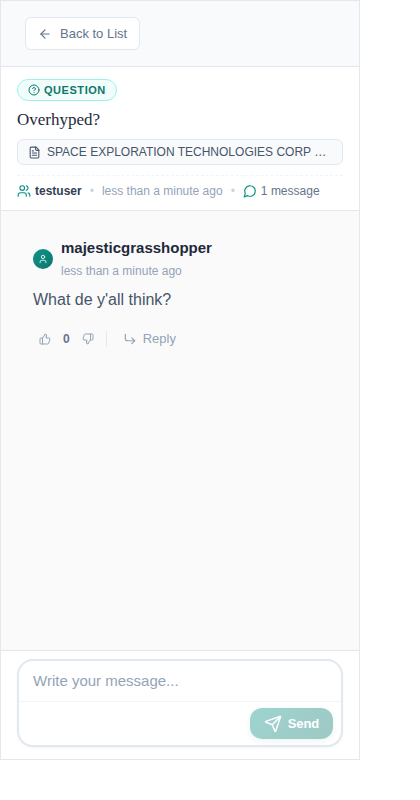
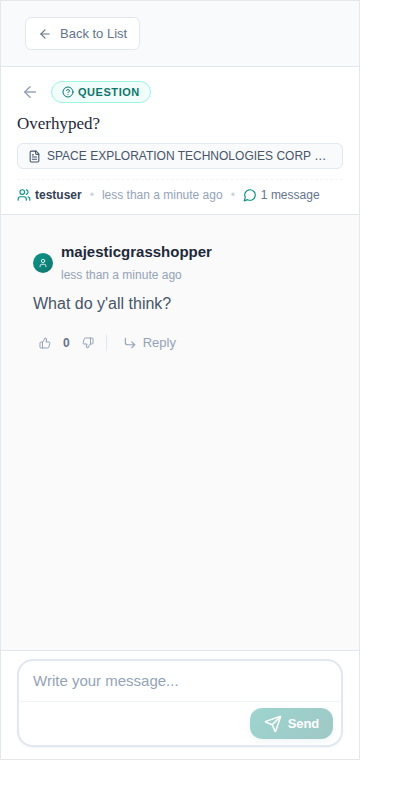
Address PR review on #1790: constants, z-index, stale read, back-button bug
Addresses Claude review on #1790 (plus restoring the back button that the
PR accidentally hid):

Critical (back button gone for sidebar discussion view):
- ThreadDetail dropped its compact BackButton whenever ``customOnBack``
  was passed. But ``customOnBack`` is the back-navigation HANDLER the
  parent supplies, not a signal that the parent renders its own button.
  ``ThreadDetailWithContext`` delegates click handling without showing
  its own back affordance, so the new gate stranded the user with no
  way to return to the list — and broke the threads-discussions.spec.ts
  e2e flow (the "Back to discussions" button locator timed out after
  3 retries). Reverted to ``compact &&`` so the button is always shown
  in compact mode; the handler still respects customOnBack.

CLAUDE.md rule #4 (no magic numbers):
- MessageBadges.tsx hoisted TOOLTIP_HEIGHT_EST + TOOLTIP_MAX_WIDTH to
  module scope, swapped its local ``GAP = 8`` and ``VIEWPORT_PADDING = 8``
  for the existing shared ``POPOVER_GAP`` and
  ``CONTEXT_MENU_VIEWPORT_PADDING`` from
  ``frontend/src/assets/configurations/constants.ts``.

Stacking-context bug:
- TooltipPopup z-index was 1000 — below ModernContextMenu (10000) and
  the canonical POPOVER_Z_INDEX (100002). Switched to POPOVER_Z_INDEX
  so the portalled tooltip outranks context menus and modal overlays.

Stale-read race:
- The JSX was computing ``bottom: window.innerHeight - tooltipPos.top``
  at render time, racing with a resize that could fire between
[…]

Changed region(s): [[0.031, 0.0938, 0.7738, 0.25], [0.0619, 0.2812, 0.4952, 0.4375]]

diff --git a/frontend/src/components/badges/MessageBadges.tsx b/frontend/src/components/badges/MessageBadges.tsx
@@ -9,6 +9,16 @@ import {
   AgentConfigurationType,
 } from "../../types/graphql-api";
 import { OS_LEGAL_COLORS } from "../../assets/configurations/osLegalStyles";
+import {
+  CONTEXT_MENU_VIEWPORT_PADDING,
+  POPOVER_GAP,
+  POPOVER_Z_INDEX,
+} from "../../assets/configurations/constants";
+
+// Tooltip-specific bounds. Hoisted to module scope so they're visible to
+// reviewers (no magic numbers buried inside a closure).
+const TOOLTIP_HEIGHT_EST = 120; // generous upper bound for typical badge tooltips
+const TOOLTIP_MAX_WIDTH = 220;
 
 const BadgeContainer = styled.div`
   display: inline-flex;
@@ -73,7 +83,10 @@ const TooltipWrapper = styled.div`
 
 const TooltipPopup = styled.div<{ $placement: "top" | "bottom" }>`
   position: fixed;
-  z-index: 1000;
+  /* Must outrank context menus (z=10000) and modals — POPOVER_Z_INDEX is
+     the project's canonical "above everything but app shell overlays"
+     layer. */
+  z-index: ${POPOVER_Z_INDEX};
   padding: 0.75em;
   border-radius: 10px;
   background: white;
@@ -164,7 +177,8 @@ function BadgeItem({
   const [isHovered, setIsHovered] = useState(false);
   const wrapperRef = useRef<HTMLDivElement>(null);
   const [tooltipPos, setTooltipPos] = useState<{
-    top: number;
+    top?: number; // set when placement === "bottom"
+    bottom?: number; // set when placement === "top"
     left: number;
     placement: "top" | "bottom";
     arrowOffset: number;
@@ -185,27 +199,42 @@ function BadgeItem({
       const node = wrapperRef.current;
       if (!node) return;
       const rect = node.getBoundingClientRect();
-      const TOOLTIP_HEIGHT_EST = 120; // generous upper bound for typical badge tooltips
-      const GAP = 8;
-      const VIEWPORT_PADDING = 8;
+      // Hide when the badge has scrolled fully out of the viewport so
+      // the tooltip doesn't float as a free-standing artifact over the
+      // rest of the UI.
+      if (rect.bottom < 0 || rect.top > window.innerHeight) {
+        setTooltipPos(null);
+        return;
+      }
       const placement: "top" | "bottom" =
-        rect.top - TOOLTIP_HEIGHT_EST - GAP < VIEWPORT_PADDING
+        rect.top - TOOLTIP_HEIGHT_EST - POPOVER_GAP <
+        CONTEXT_MENU_VIEWPORT_PADDING
           ? "bottom"
           : "top";
 
       // Center horizontally on the badge, clamped to viewport.
-      const TOOLTIP_MAX_WIDTH = 220;
       const centerX = rect.left + rect.width / 2;
       let left = centerX - TOOLTIP_MAX_WIDTH / 2;
       left = Math.max(
-        VIEWPORT_PADDING,
-        Math.min(left, window.innerWidth - TOOLTIP_MAX_WIDTH - VIEWPORT_PADDING)
+        CONTEXT_MENU_VIEWPORT_PADDING,
+        Math.min(
+          left,
+          window.innerWidth - TOOLTIP_MAX_WIDTH - CONTEXT_MENU_VIEWPORT_PADDING
+        )
       );
       const arrowOffset = centerX - left; // px from tooltip's left edge to arrow center
 
-      const top = placement === "top" ? rect.top - GAP : rect.bottom + GAP;
-
-      setTooltipPos({ top, left, placement, arrowOffset });
+      // Capture BOTH ``top`` and ``bottom`` here so the JSX doesn't have
+      // to re-read ``window.innerHeight`` at render time — that read
+      // could race with a resize between the effect firing and the next
+      // paint and cause a 1-frame misalignment.
+      if (placement === "top") {
+        const bottom = window.innerHeight - (rect.top - POPOVER_GAP);
+        setTooltipPos({ bottom, left, placement, arrowOffset });
+      } else {
+        const top = rect.bottom + POPOVER_GAP;
+        setTooltipPos({ top, left, placement, arrowOffset });
+      }
     };
 
     computePosition();
@@ -240,11 +269,8 @@ function BadgeItem({
     <TooltipPopup
       $placement={tooltipPos.placement}
       style={{
-        top: tooltipPos.placement === "top" ? undefined : tooltipPos.top,
-        bottom:
-          tooltipPos.placement === "top"
-            ? window.innerHeight - tooltipPos.top
-            : undefined,
+        top: tooltipPos.top,
+        bottom: tooltipPos.bottom,
         left: tooltipPos.left,
         // Anchor the arrow under the badge center even when the tooltip
         // is clamped to the viewport edge (consumed by ::after in

diff --git a/frontend/src/components/threads/ThreadDetail.tsx b/frontend/src/components/threads/ThreadDetail.tsx
@@ -495,11 +495,14 @@ export function ThreadDetail({
       {/* Compact Header */}
       <Header data-testid="thread-header">
         <HeaderLeft>
-          {/* Title row: type badge + title + status badges
-              Back button is only shown when the parent isn't already
-              rendering one (customOnBack signals the parent handles it). */}
+          {/* Title row: type badge + title + status badges.
+              Back button is always rendered in compact mode — ``customOnBack``
+              is the back-navigation handler the parent passes in, not a
+              signal that the parent renders its own button (e.g.
+              ``ThreadDetailWithContext`` delegates click handling but does
+              not display its own back affordance). */}
           <TitleRow>
-            {compact && !customOnBack && (
+            {compact && (
               <BackButton onClick={handleBack} aria-label="Back to discussions">
                 <ArrowLeft />
               </BackButton>

diff --git a/frontend/tests/threads/ThreadDetailSidebarLayout.ct.tsx b/frontend/tests/threads/ThreadDetailSidebarLayout.ct.tsx
@@ -37,7 +37,7 @@ test.describe("DocumentDiscussionsContent — sidebar thread detail", () => {
     allMessages: [
       createMockMessage({
         id: "msg-1",
-        content: "What de y'all think?",
+        content: "What do y'all think?",
         creator: {
           id: "user-1",
           username: "majesticGrasshopper",
@@ -146,7 +146,7 @@ test.describe("DocumentDiscussionsContent — sidebar thread detail", () => {
 
     await expect(page.getByText("Overhyped?")).toBeVisible({ timeout: 10_000 });
     await expect(page.getByText(documentTitle)).toBeVisible({ timeout: 5_000 });
-    await expect(page.getByText("What de y'all think?")).toBeVisible({
+    await expect(page.getByText("What do y'all think?")).toBeVisible({
       timeout: 5_000,
     });
 

diff --git a/frontend/tests/threads/BadgeClipHarness.tsx b/frontend/tests/threads/BadgeClipHarness.tsx
@@ -15,7 +15,7 @@ import { ChatMessageType, UserBadgeType } from "../../src/types/graphql-api";
 export function BadgeClipHarness() {
   const message: ChatMessageType = {
     id: "msg-1",
-    content: "What de y'all think?",
+    content: "What do y'all think?",
     msgType: "HUMAN",
   } as unknown as ChatMessageType;
 

diff --git a/CHANGELOG.md b/CHANGELOG.md
@@ -9,7 +9,7 @@ and this project adheres to [Semantic Versioning](https://semver.org/spec/v2.0.0
 
 ### Fixed
 
-- **Sidebar discussion-view: badge tooltip no longer clipped + reworked top header layout** (`frontend/src/components/badges/MessageBadges.tsx`, `frontend/src/components/threads/ThreadDetail.tsx`). The `Conversationalist`-style badge tooltip in the right-sidebar discussion view was getting clipped by the `overflow: hidden` chain that the sidebar shell enforces (`ContextSidebarContainer`, `DocumentDiscussionsContent` `Container`, parent `FlexColumnPanel`) — the tooltip was a child `position: absolute` element with no way to escape its scroll/clip parent. `MessageBadges.tsx` now renders `TooltipPopup` through `ReactDOM.createPortal(..., document.body)` with `position: fixed` coordinates derived from the badge's `getBoundingClientRect()`, including viewport-edge clamping and a flip-below-the-badge fallback when there isn't room above (avoids the same clip at the top of any scroll container). The arrow stays anchored under the badge centre via a `--arrow-offset` CSS variable so a clamped tooltip still points at the right element. While in the same view, `ThreadDetail.tsx`'s compact sidebar header was reworked so the type badge, title, status pills, document context link, and meta row each get their own line instead of one wrap-row that flowed into a cramped jumble; the duplicate compact back-arrow inside `TitleRow` is now suppressed when the parent already renders a back button (`compact && !customOnBack`), and the meta row is separated from the body by a dashed top border. New Playwright CT coverage in `frontend/tests/threads/ThreadDetailSidebarLayout.ct.tsx` (+ `ThreadDetailSidebarLayoutHarness.tsx`, `BadgeClipHarness.tsx`) pins both the new header layout and the tooltip-escapes-clip behaviour, and emits `discussions--sidebar-thread-detail--layout.png` and `discussions--sidebar-thread-detail--tooltip-portal.png` for docs.
+- **Sidebar discussion-view: badge tooltip no longer clipped + reworked top header layout** (`frontend/src/components/badges/MessageBadges.tsx`, `frontend/src/components/threads/ThreadDetail.tsx`). The `Conversationalist`-style badge tooltip in the right-sidebar discussion view was getting clipped by the `overflow: hidden` chain that the sidebar shell enforces (`ContextSidebarContainer`, `DocumentDiscussionsContent` `Container`, parent `FlexColumnPanel`) — the tooltip was a child `position: absolute` element with no way to escape its scroll/clip parent. `MessageBadges.tsx` now renders `TooltipPopup` through `ReactDOM.createPortal(..., document.body)` with `position: fixed` coordinates derived from the badge's `getBoundingClientRect()`, including viewport-edge clamping and a flip-below-the-badge fallback when there isn't room above (avoids the same clip at the top of any scroll container). The arrow stays anchored under the badge centre via a `--arrow-offset` CSS variable so a clamped tooltip still points at the right element. The portal layer uses `POPOVER_Z_INDEX` (100002) so it outranks context menus and modal overlays, hides itself when the underlying badge scrolls fully out of the viewport (no orphan tooltip floating over the rest of the UI), and captures both `top` and `bottom` inside the effect so the JSX never re-reads `window.innerHeight` at render time (no 1-frame misalignment on resize). Bounds come from shared / module-level constants (`POPOVER_GAP`, `CONTEXT_MENU_VIEWPORT_PADDING`, `TOOLTIP_HEIGHT_EST`, `TOOLTIP_MAX_WIDTH`) rather than magic numbers buried inside the effect. While in the same view, `ThreadDetail.tsx`'s compact sidebar header was reworked so the type badge, title, status pills, document context link, and meta row each get their own line instead of one wrap-row that flowed into a cramped jumble; the compact back-arrow is unconditionally rendered in compact mode (the `customOnBack` prop is the back-navigation handler the parent passes in, not a signal that the parent renders its own button — `ThreadDetailWithContext` delegates click handling without showing its own back affordance, so suppressing the button on `customOnBack` would strand the user with no way to return to the list, regressing the `threads-discussions.spec.ts` e2e flow). New Playwright CT coverage in `frontend/tests/threads/ThreadDetailSidebarLayout.ct.tsx` (+ `ThreadDetailSidebarLayoutHarness.tsx`, `BadgeClipHarness.tsx`) pins both the new header layout and the tooltip-escapes-clip behaviour, and emits `discussions--sidebar-thread-detail--layout.png` and `discussions--sidebar-thread-detail--tooltip-portal.png` for docs.
 
 - **Loading splash rebrand + mobile coverage** (follow-up to PR #1781). The `ModernLoadingDisplay` widget (used by `AuthGate` and every route-level loader) still showed the legacy `os_legal_FullColor.png` and the string `Loading OpenContracts`; on mobile it also bled through to the underlying app chrome.
   - **Brand swap.** `frontend/src/components/widgets/ModernLoadingDisplay.tsx` now renders the `CiteMark` SVG (slate brackets + teal node) at 60px in place of the PNG, and the default message is `Loading cite`. The unreachable lucide-icon fallback path (`useOsLogo` was hard-defaulted to `true` with no caller overriding it) and unused `rotate` keyframe were removed. `AuthGate.tsx` now passes `message="Initializing cite"` (test assertion updated in `AuthGate.test.tsx`). Asset `frontend/src/assets/images/os_legal_FullColor.png` deleted.
